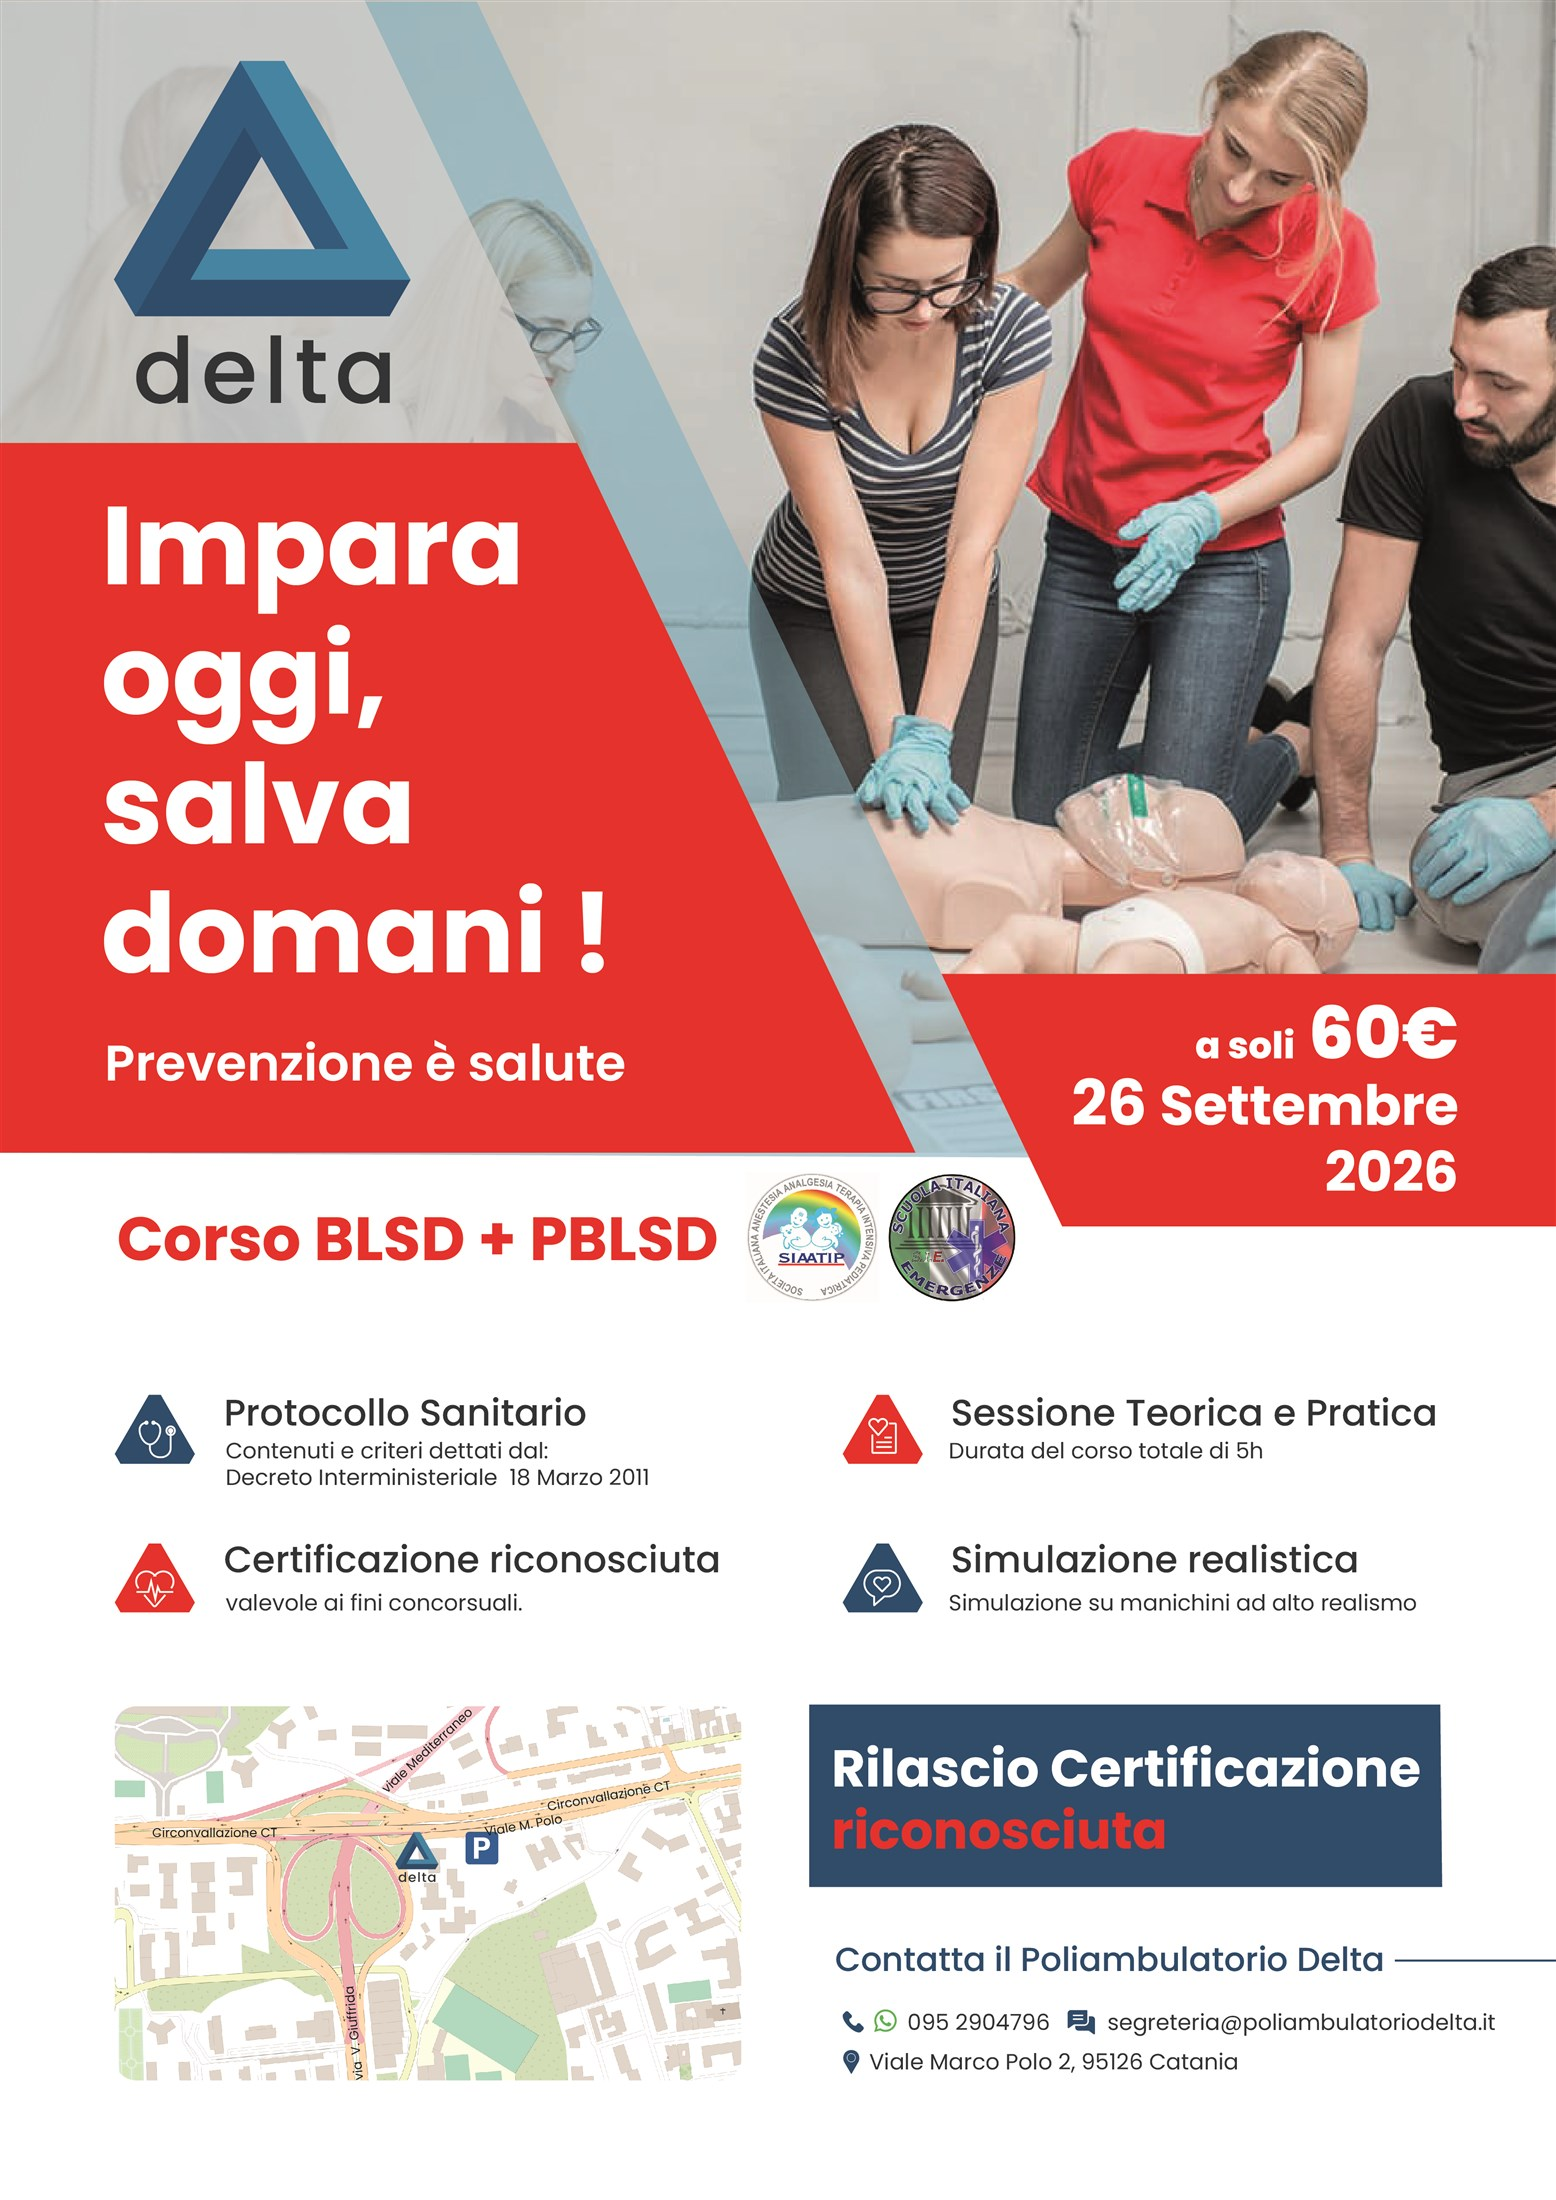
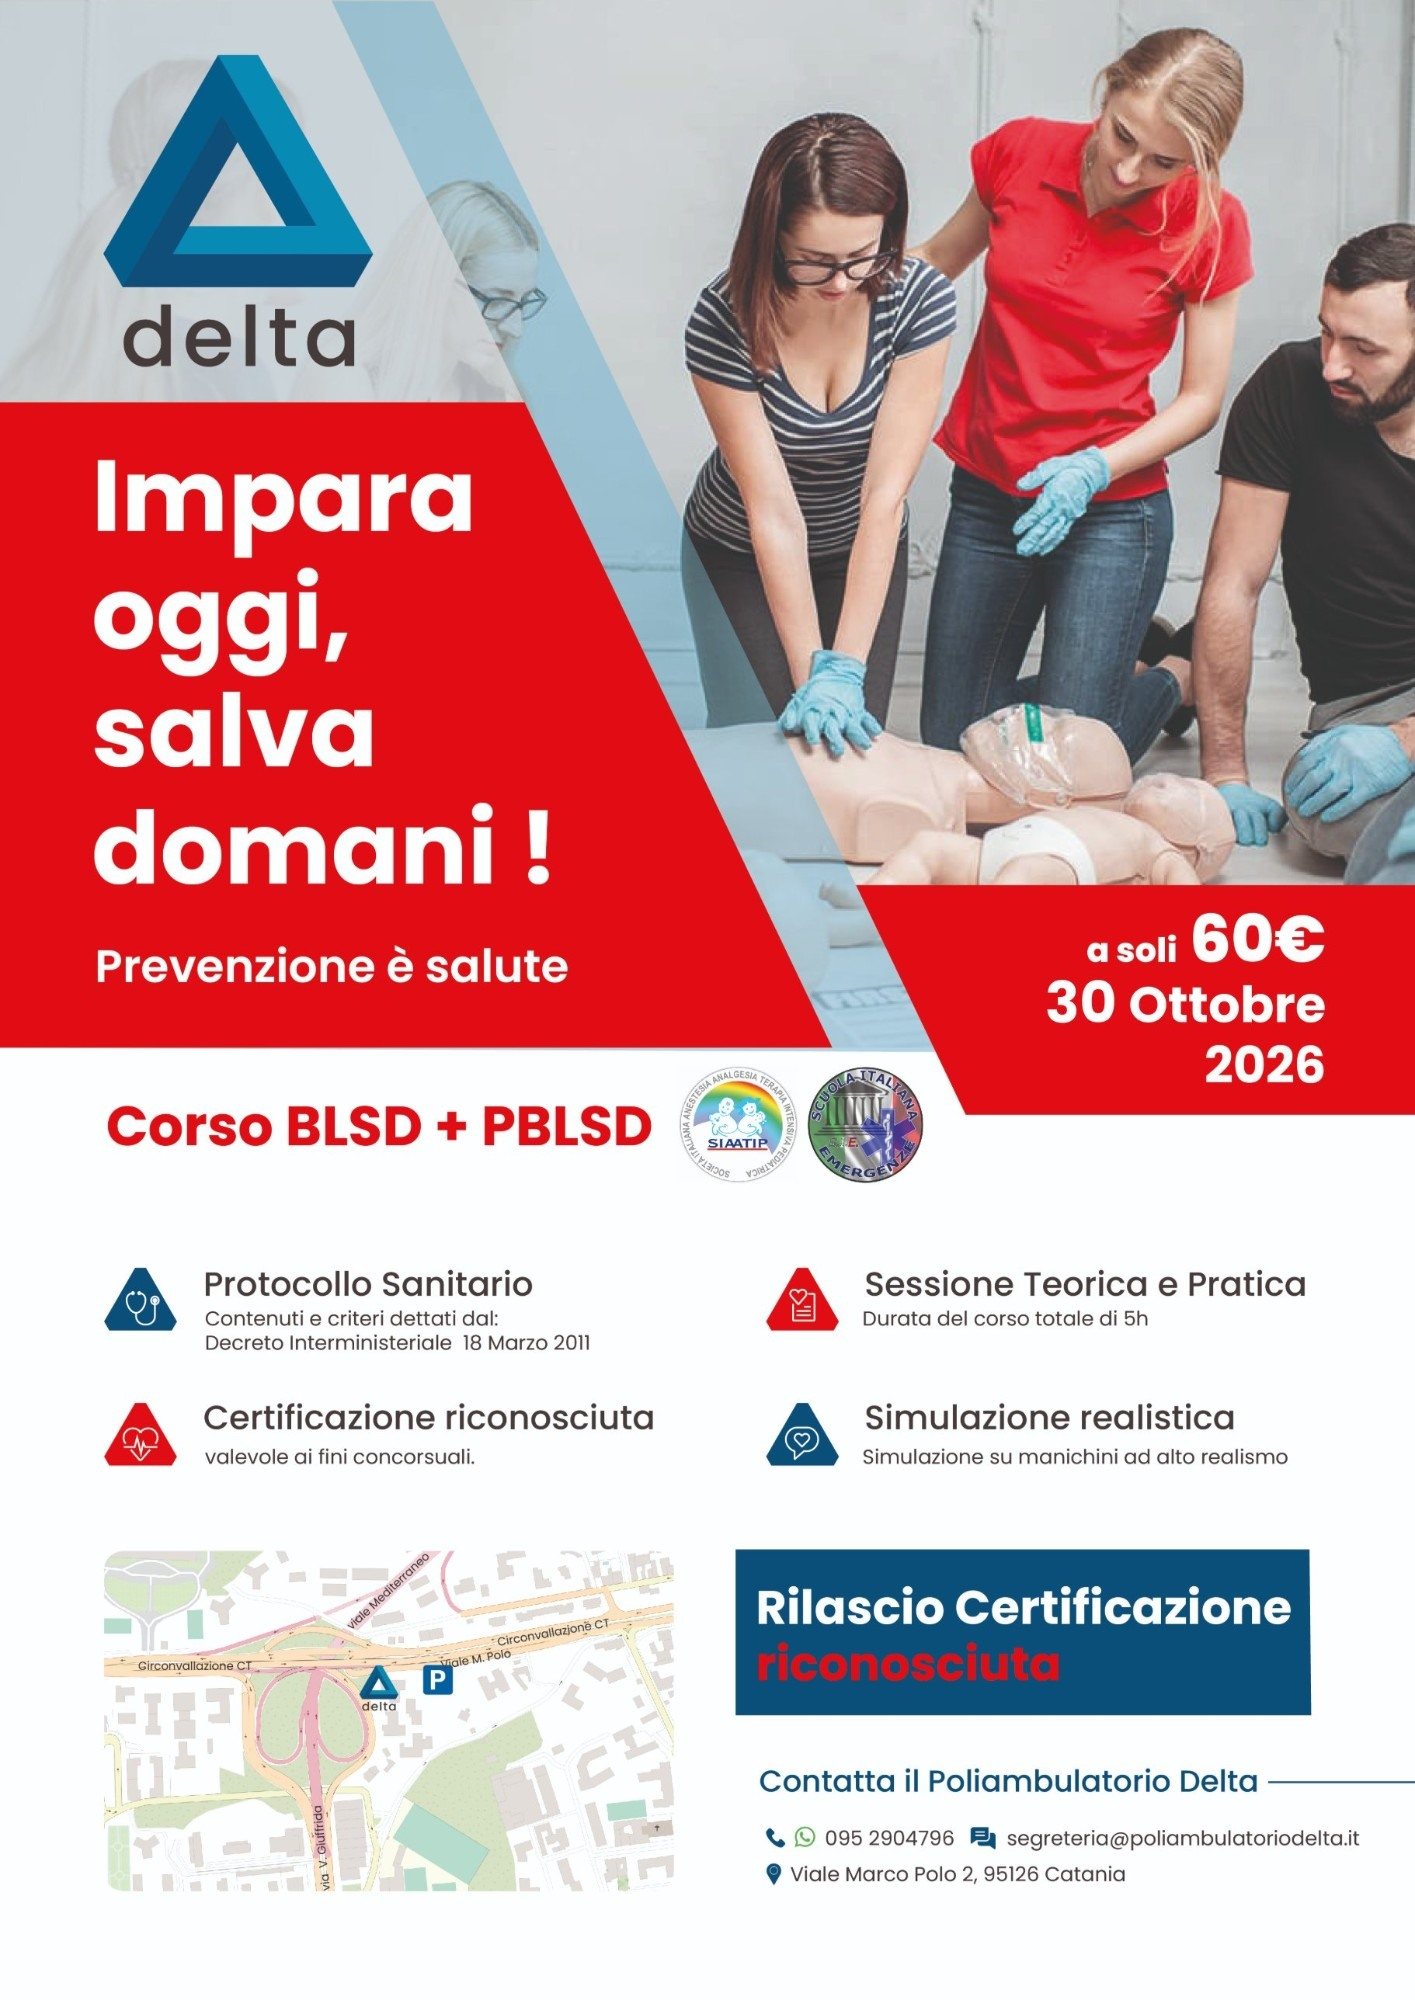
Aggiorna la locandina del Corso BLSD+PBLSD con la data del 30 Ottobre 2026

diff --git a/index.html b/index.html
@@ -240,8 +240,8 @@
           </div>
 
           <div class="promo-card">
-            <div class="promo-card-image lightbox-trigger" data-full="images/promo-blsd-full.jpg" role="button" tabindex="0" aria-label="Ingrandisci la locandina del Corso BLSD + PBLSD">
-              <img src="images/promo-blsd.jpg" alt="Locandina del Corso BLSD + PBLSD a 60 euro, 30 Ottobre 2026, Poliambulatorio Delta">
+            <div class="promo-card-image lightbox-trigger" data-full="images/promo-blsd-full.jpg?v=2" role="button" tabindex="0" aria-label="Ingrandisci la locandina del Corso BLSD + PBLSD">
+              <img src="images/promo-blsd.jpg?v=2" alt="Locandina del Corso BLSD + PBLSD a 60 euro, 30 Ottobre 2026, Poliambulatorio Delta">
             </div>
             <div class="promo-card-body">
               <span class="promo-tag">Corso in programma</span>

diff --git a/corsi.html b/corsi.html
@@ -409,7 +409,7 @@
     blsd: {
       titolo: 'Corso BLSD + PBLSD',
       html: `
-        <img src="images/promo-blsd.jpg" alt="Locandina del Corso BLSD + PBLSD, 30 Ottobre 2026, a 60 euro" class="info-modal-poster">
+        <img src="images/promo-blsd.jpg?v=2" alt="Locandina del Corso BLSD + PBLSD, 30 Ottobre 2026, a 60 euro" class="info-modal-poster">
         <h4>Prossima edizione</h4>
         <p><strong>30 Ottobre 2026</strong> — quota di partecipazione <strong>€ 60,00</strong> — durata totale <strong>5 ore</strong>.</p>
         <h4>A chi è rivolto</h4>
